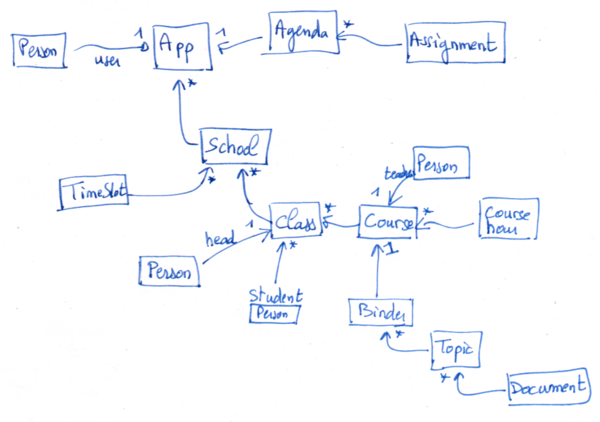
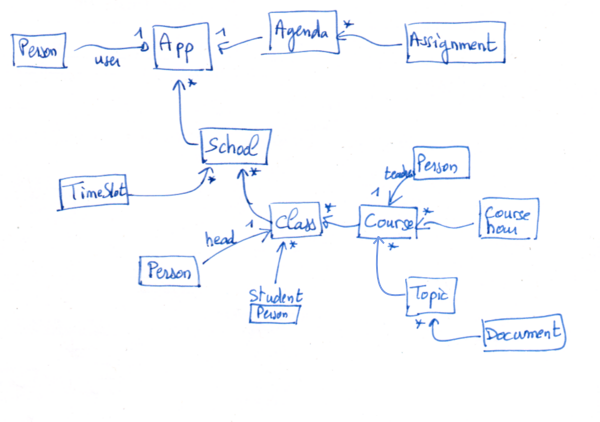
Removale of the binder object

Changed region(s): [[0.57, 0.6469, 0.99, 0.9858], [0.6, 0.5545, 0.66, 0.6161]]

diff --git a/technical/DyboApp/README.md b/technical/DyboApp/README.md
@@ -56,10 +56,14 @@ educational content; the administrative facets of the teacher and
 student roles.
 
 **App**
-
+Class `DyUserData`
 * user (Person)
 * schools (1st school of the collection is the default one if required)
 * agenda
+
+In the Dybo host disk, the root of the App is given by the global
+method `DySystem userDataPath`. This object and its attributes are
+saved in the file *data.ob*.
 
 **School**
 
@@ -101,10 +105,10 @@ It is useful for the teacher and student to describe all of their
 courses.
 
 * subject (the taught subject name)
-* distinctive attributes (color or other)
+* color (distinctive attribute)
 * teacher (person type), relevant for student user only
 * course hours
-* binder
+* topics (a collection of topic objects taught in this course)
 
 **ClassGroup**
 
